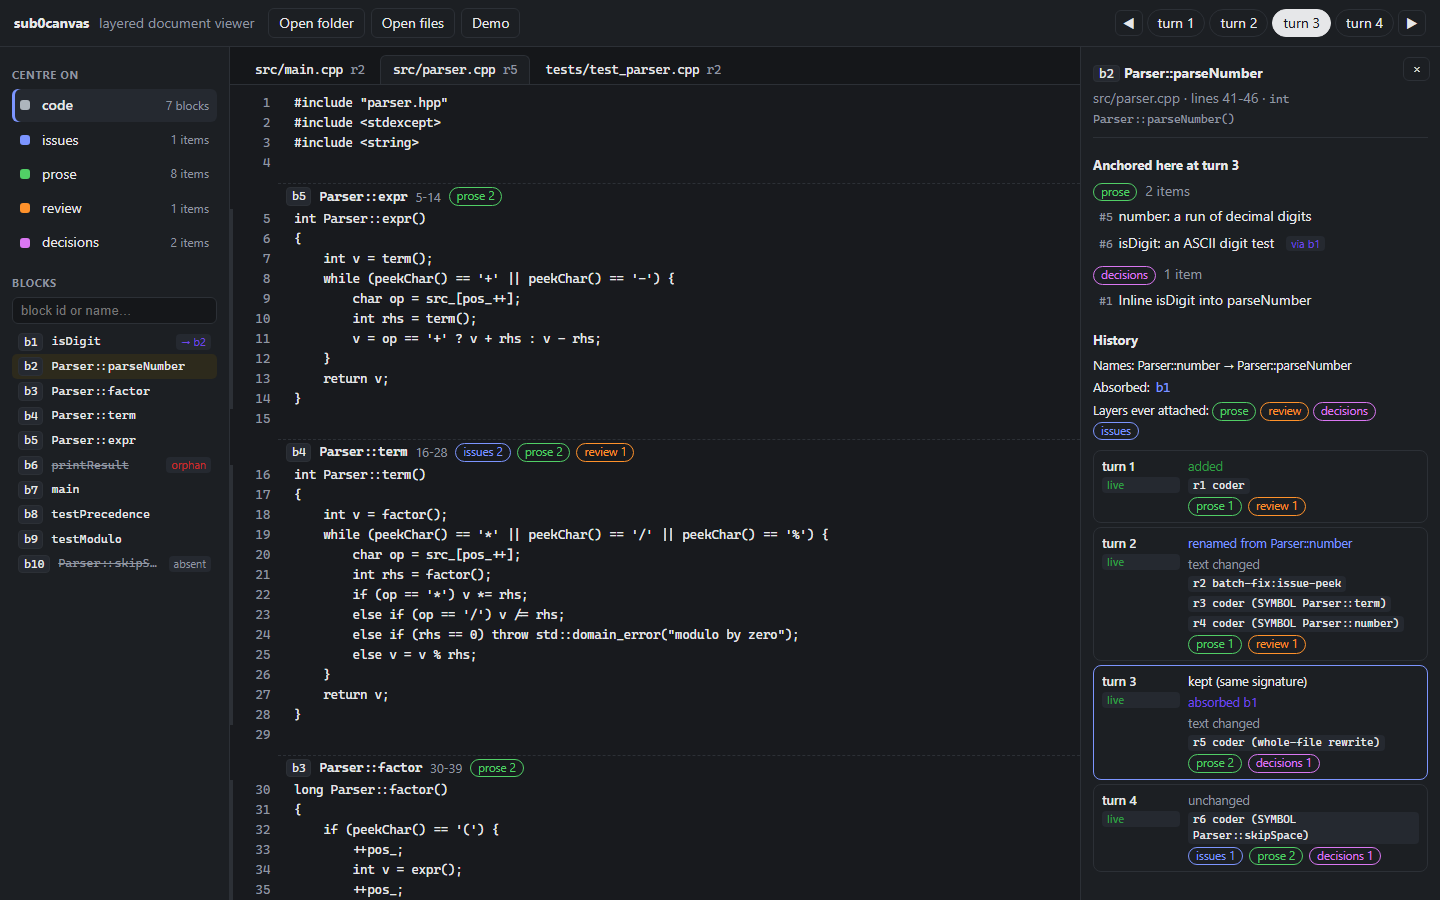
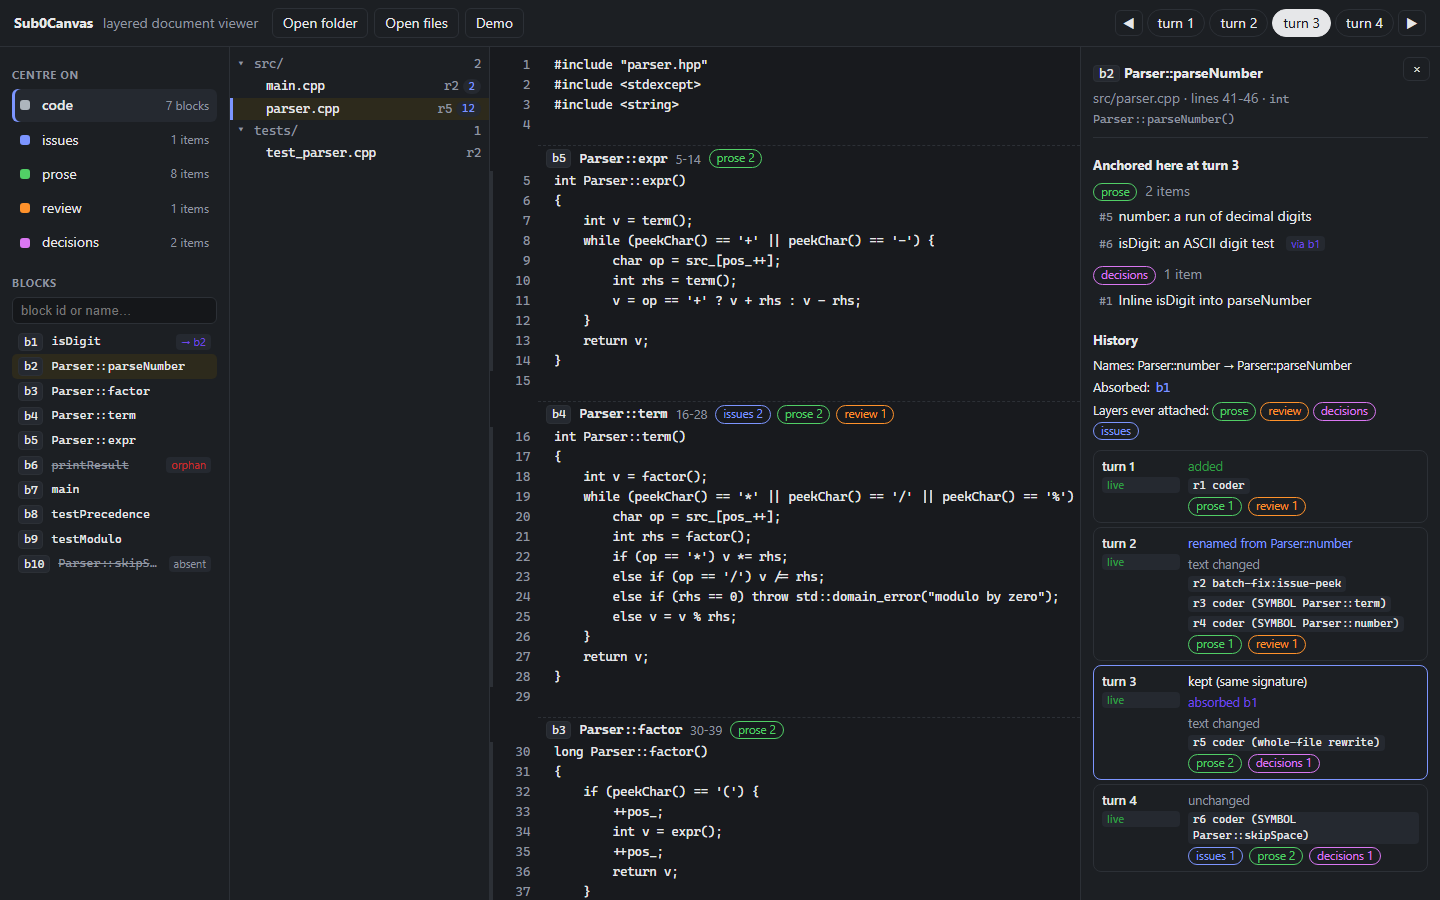
Viewer: the code view lists files as a tree, not a block of tabs
A row of path tabs wrapped into a wall of text once a document held more than a handful of files (49
in the mirror's topic). Files are now a tree beside the code: directories fold, a chain of
single-child directories is one row (as editors show compact folders), the open file's directories
open by default and every directory opens when the turn has twelve files or fewer. Each file shows
its revision and how many layer anchors land in it, so the tree says where the layers are before a
file is opened. The tree and the code scroll separately, and each keeps its position across renders
(the code only while the same file is open); below 1000px the tree stacks above the code.
The README screenshots are regenerated.

diff --git a/src/view.js b/src/view.js
@@ -295,10 +295,59 @@
                                  onclick: holder ? () => set({ block: holder.id }) : undefined },
                 h('span', { class: 'ln' }, n), h('span', { class: 'gut' }, mark ? '●' : ''), h('code', null, text || ' ')));
         });
-        put($('#centre'), 
-            h('div', { class: 'tabs' }, paths.map((p) => h('button', { class: `tab ${p === path ? 'on' : ''}`, onclick: () => set({ file: p }) },
-                p, h('span', { class: 'muted' }, ` r${t.files[p].revision}`)))),
-            h('div', { class: 'code' }, rows));
+        // The tree and the code scroll separately, and every render rebuilds them: keep each one's position, the code's only on the same file.
+        const was = { tree: $('#centre .filetree')?.scrollTop ?? 0, code: $('#centre .code')?.scrollTop ?? 0, file: $('#centre .code')?.dataset.file };
+        const code = h('div', { class: 'code', 'data-file': path }, rows);
+        const tree = fileTree(paths, path, t, counts);
+        put($('#centre'), h('div', { class: 'codeview' }, tree, code));
+        tree.scrollTop = was.tree;
+        if (was.file === path) code.scrollTop = was.code;
+    }
+
+    // ---- the file tree ------------------------------------------------------------------------------------------------------------------------------
+
+    // Directories the reader opened or closed by hand. The rest follow the default: open when on the path to the open file, or all open when the
+    // turn has few files (the demo's three).
+    const dirToggles = new Map();
+
+    function fileTree(paths, current, t, counts) {
+        const root = { dirs: new Map(), files: [] };
+        for (const p of paths) {
+            let node = root;
+            for (const d of p.split('/').slice(0, -1)) {
+                if (!node.dirs.has(d)) node.dirs.set(d, { dirs: new Map(), files: [] });
+                node = node.dirs.get(d);
+            }
+            node.files.push(p);
+        }
+        const size = (node) => node.files.length + [...node.dirs.values()].reduce((n, c) => n + size(c), 0);
+        // Layer anchors per file, so the tree shows where layers land without opening each file.
+        const anchored = (p) => M.blocksOf(state.doc, state.turn, p).reduce((n, b) => n + Object.values(counts.get(b.id) || {}).reduce((x, y) => x + y, 0), 0);
+        const few = paths.length <= 12;
+        const rows = [];
+        const walk = (node, prefix, depth) => {
+            for (const [first, firstNode] of [...node.dirs].sort(([a], [b]) => (a < b ? -1 : 1))) {
+                // A chain of directories with one child each is one row (core/details/panel), as editors show compact folders.
+                let name = first, child = firstNode, full = prefix + first;
+                while (!child.files.length && child.dirs.size === 1) {
+                    const [nextName, next] = [...child.dirs][0];
+                    name += `/${nextName}`; full += `/${nextName}`; child = next;
+                }
+                const open = dirToggles.has(full) ? dirToggles.get(full) : few || current.startsWith(`${full}/`);
+                rows.push(h('button', { class: 'trow dir', style: `--depth:${depth}`, title: full, 'aria-expanded': String(open),
+                                        onclick: () => { dirToggles.set(full, !open); render(); } },
+                    h('span', { class: 'caret' }, open ? '▾' : '▸'), h('span', { class: 'tname' }, `${name}/`), h('span', { class: 'muted' }, String(size(child)))));
+                if (open) walk(child, `${full}/`, depth + 1);
+            }
+            for (const p of node.files.slice().sort()) {
+                const k = anchored(p);
+                rows.push(h('button', { class: `trow file ${p === current ? 'on' : ''}`, style: `--depth:${depth}`, title: p, onclick: () => set({ file: p }) },
+                    h('span', { class: 'caret' }), h('span', { class: 'tname' }, p.split('/').pop()), h('span', { class: 'muted' }, `r${t.files[p].revision}`),
+                    k ? h('span', { class: 'tcount', title: `${k} layer anchors in this file` }, String(k)) : null));
+            }
+        };
+        walk(root, '', 0);
+        return h('nav', { class: 'filetree', 'aria-label': 'Files' }, rows);
     }
 
     // ---- centre: a layer --------------------------------------------------------------------------------------------------------------------------

diff --git a/src/styles.css b/src/styles.css
@@ -87,10 +87,18 @@ h3 { font-size: 13px; margin: 18px 0 6px; }
 .blockrow.st-orphan .bname, .blockrow.st-unknown .bname { text-decoration: line-through; color: var(--muted); }
 
 /* code */
-.tabs { display: flex; gap: 2px; padding: 8px 12px 0; border-bottom: 1px solid var(--line); position: sticky; top: 0; background: var(--bg); z-index: 1; flex-wrap: wrap; }
-.tab { border: 1px solid transparent; border-bottom: 0; background: transparent; padding: 5px 12px; border-radius: 6px 6px 0 0; cursor: pointer; font-family: var(--mono); font-size: 12.5px; }
-.tab.on { background: var(--panel); border-color: var(--line); }
-.code { padding: 8px 0 40px; background: var(--code-bg); }
+.centre:has(> .codeview) { overflow: hidden; }
+.codeview { display: grid; grid-template-columns: minmax(170px, 260px) minmax(0, 1fr); height: 100%; min-height: 0; }
+.filetree { overflow: auto; border-right: 1px solid var(--line); background: var(--panel); padding: 6px 0 20px; }
+.trow { display: flex; align-items: center; gap: 4px; width: 100%; border: 0; background: transparent; color: inherit; cursor: pointer; text-align: left;
+        padding: 2px 8px 2px calc(8px + var(--depth, 0) * 12px); font-family: var(--mono); font-size: 12.5px; white-space: nowrap; }
+.trow:hover { background: var(--hover); }
+.trow.on { background: var(--sel); box-shadow: inset 3px 0 0 var(--accent); }
+.trow .caret { width: 12px; flex: none; color: var(--muted); font-size: 10px; }
+.trow .tname { overflow: hidden; text-overflow: ellipsis; flex: 1 1 auto; min-width: 0; }
+.trow.dir .tname { color: var(--muted); }
+.trow .tcount { font-size: 11px; padding: 0 6px; border-radius: 999px; background: var(--hover); color: var(--accent); }
+.code { padding: 8px 0 40px; background: var(--code-bg); overflow: auto; }
 .line { display: grid; grid-template-columns: 48px 16px 1fr; white-space: pre; font-family: var(--mono); font-size: 12.5px; line-height: 1.6; }
 .line .ln { color: var(--muted); text-align: right; padding-right: 8px; user-select: none; }
 .line .gut { color: var(--lc, var(--muted)); text-align: center; font-size: 10px; }
@@ -191,4 +199,7 @@ mark { background: color-mix(in srgb, var(--accent) 30%, transparent); color: in
   .nav, .inspector { border: 0; border-bottom: 1px solid var(--line); max-height: none; }
   .bar { gap: 8px; }
   .turns { margin-left: 0; }
+  .centre:has(> .codeview) { overflow: visible; }
+  .codeview { grid-template-columns: 1fr; height: auto; }
+  .filetree { max-height: 220px; border-right: 0; border-bottom: 1px solid var(--line); }
 }
